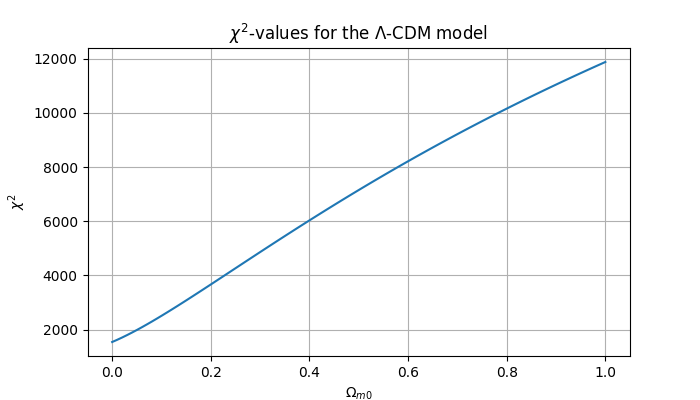
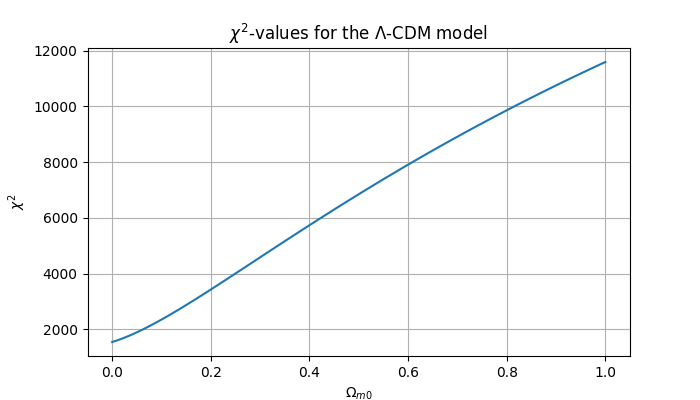
added type hint, unflipped z-array

diff --git a/Projects/Project 1/scripts/problem14.py b/Projects/Project 1/scripts/problem14.py
@@ -9,7 +9,7 @@ from problem13 import DATA_PATH, c, H_0, chi_squared
 
 
 def lumonisity_integrand_lambdacdm(
-    z, Omega_m0: float = 0.3
+    z: np.ndarray, Omega_m0: float = 0.3
 ) -> tuple[np.ndarray, np.ndarray]:
     """
     Represents the integral over z of the dimensionless luminosity distance (eq. S)
@@ -21,12 +21,12 @@ def lumonisity_integrand_lambdacdm(
         The integrand values array
     """
 
-    h = hubble_parameter_lambdacdm(np.flip(z), Omega_m0)
+    h = hubble_parameter_lambdacdm(z, Omega_m0)
     return 1 / h
 
 
 def luminosity_distance_lambdacdm(
-    z, Omega_m0: float = 0.3
+    z: np.ndarray, Omega_m0: float = 0.3
 ) -> tuple[np.ndarray, np.ndarray]:
     """
     Calculate the dimensionless luminosity distance H_0d_L/c for the lambda-cdm model
